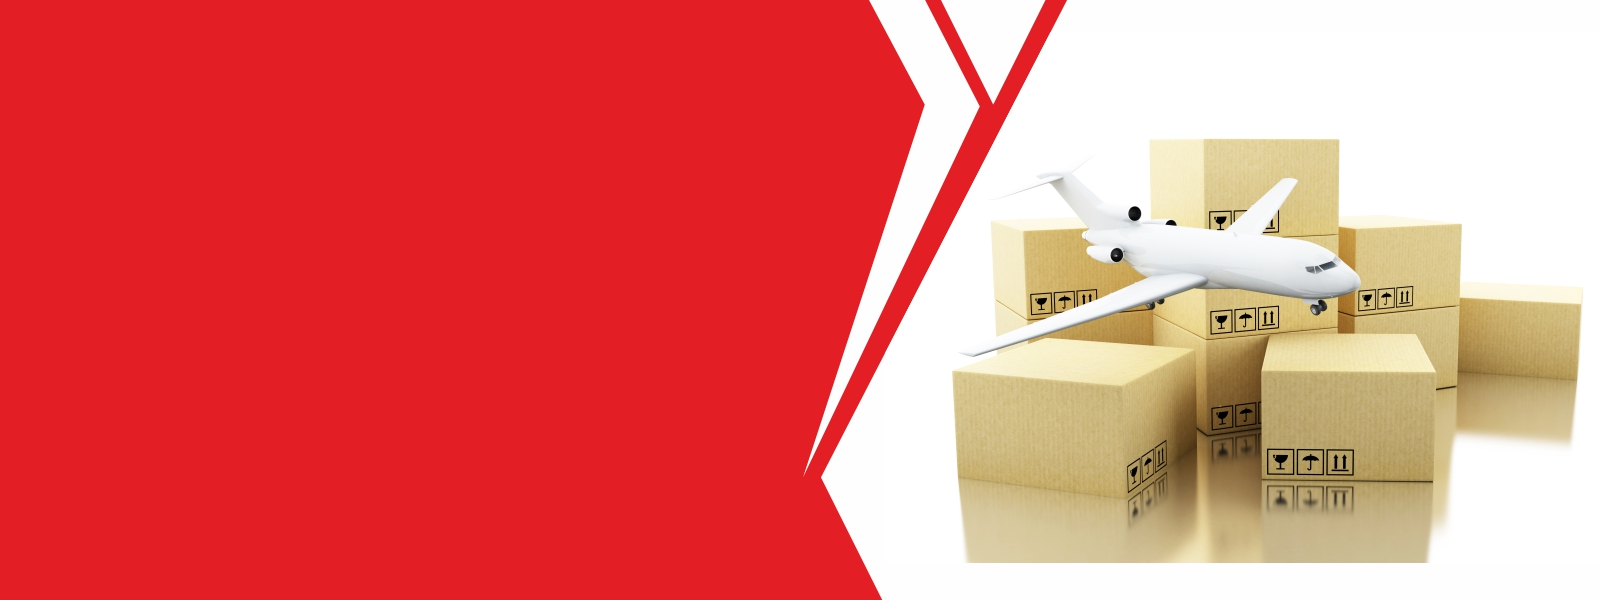
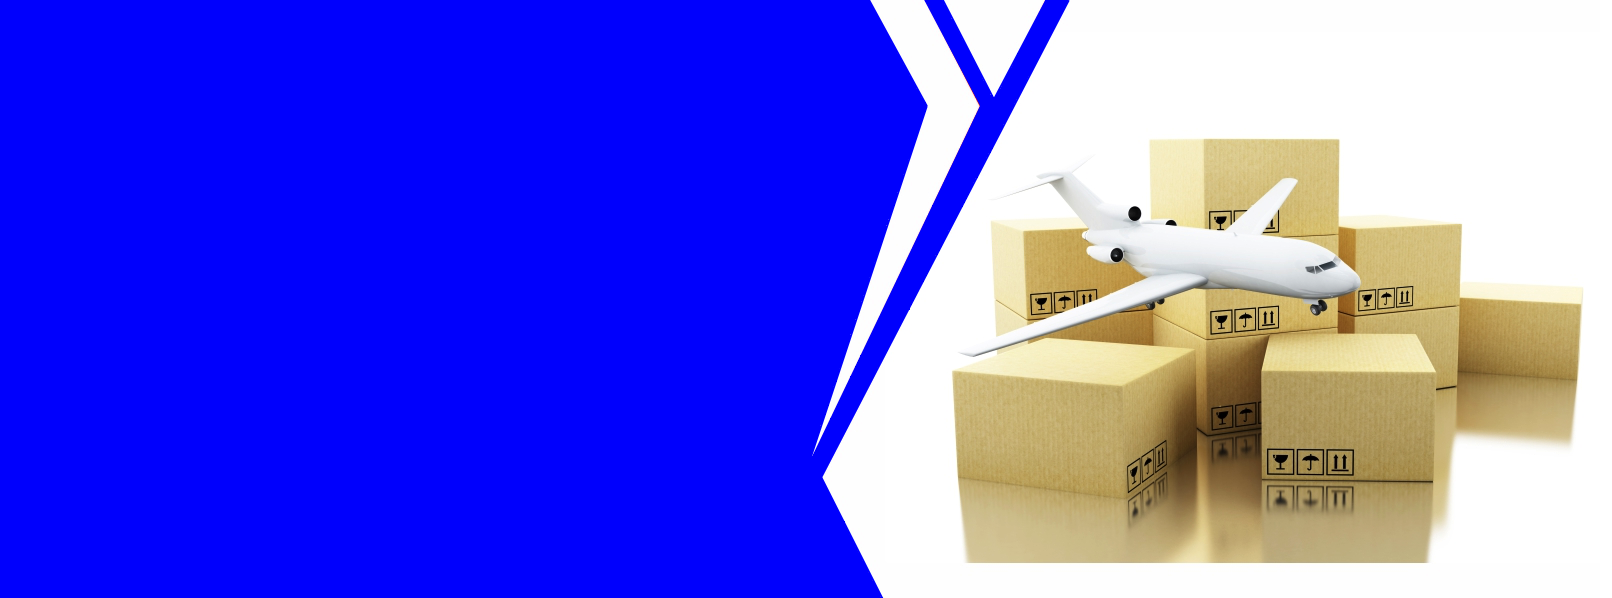
update

diff --git a/www.thehandcarry.co.in/css/color.css b/www.thehandcarry.co.in/css/color.css
@@ -38,30 +38,30 @@ header, .topmenu nav:first-child:before{
 /*---------- CHANGE COLOR TWO ----------*/
 .navbar-main > li > .dropdown-menu,
 footer .color-part, .btn.btn-danger, .btn.btn-danger:hover, .btn.btn-danger, .btn.btn-danger:hover, .main-menu, .main-menu:before, #main-menu-bg, .stats > div > div:hover, .btn.btn-sm.btn-default:before, .big-hr.color-2, .our-services.styled div > a:hover:after, .adress-details > div > span:after, .comments > div > a.reply:hover, .comments > div > a.reply:after, nav.pagination a:hover, .tags a:hover, ul.blog-cats > li:hover, #menu-open, .main-menu section nav, .our-services div > a:hover > span, .testimonial-content span, .info-texts:after, .post-info:after, .customBgColor{
-	background-color:#a91605;
+	background-color:#120586a8;
 }
 .stats > div > div:hover, .btn.btn-sm.btn-default:hover, .comments > div > a.reply:hover, nav.pagination a:hover, .tags a:hover, ul.blog-cats li:hover, .our-services div > a:hover > span, .testimonial-content span{
-	border-color:#a91605;
+	border-color:#ffbd07;
 }
 .big-hr.color-2:before, .big-hr.color-2:after, .info-texts div > div > div:last-child:before{
-    border-top-color:#a91605; 
+    border-top-color:#ffbd07; 
 }
 .our-services div > a:hover > span:before, .our-services div > a:hover > span:after, .testimonial-content span:before, .testimonial-content span:after{
-	border-bottom-color: #a91605; 
+	border-bottom-color: #ffbd07; 
 }
 .stats span:first-child, footer .copy a, .twitter-feeds div span, .recent-posts div a:hover{
-	color:#a91605;
+	color:#ffbd07;
 }
 @media screen and (max-width: 768px){
 	.info-texts div > div > div:last-child p{
-		background:#a91605;
+		background:#ffbd07;
 	}
 	#menu-close,.main-menu a:hover{
-		color:#a91605;
+		color:#ffbd07;
 	}
 }
 .ip-header .ip-loader svg path.ip-loader-circle {
-	stroke: #a91605;
+	stroke: #ffbd07;
 }
 
 /*---------------------------------------------*/
@@ -81,20 +81,20 @@ h1.color-1, h2.color-1, h3.color-1, h4.color-1, h5.color-1, h6.color-1, .twitter
 	color:#f0ad4e;
 }
 .btn.btn-sm.btn-success:hover, nav.pagination a.active, .nav-tabs > li.active{
-	border-color:#549404;
+	border-color:#042394bd;
 }
 .stats > div > div:hover, .info-texts div > div > div:first-child:before, ul.styled li > ul{
-	border-bottom-color:#549404;
+	border-bottom-color:#042394bd;
 }
 .big-hr.color-1:before, .big-hr.color-1:after, .info-texts div > div > div:first-child:before{
-    border-top-color:#549404; 
+    border-top-color:#042394bd; 
 }
 .btn.btn-success, .btn-success:hover, .big-hr.color-1, .one-news > div > div, .btn.btn-sm.btn-success:before, .our-services div > a:hover:after, nav.pagination a.active, ul.styled > li.active, .nav-tabs > li.active > a, .nav-tabs > li.active > a:focus, .nav-tabs > li.active > a:hover, .info-texts:before, ul.blog-cats > li:before, ul.blog-cats li > ul{
-	background-color:#549404;
+	background-color:#042394bd;
 }
 @media screen and (max-width: 768px){
 	.info-texts div > div > div:first-child p{
-		background:#549404;
+		background:#042394bd;
 	}
 }
 /*---------------------------------------------*/

diff --git a/www.thehandcarry.co.in/css/theme.css b/www.thehandcarry.co.in/css/theme.css
@@ -1752,7 +1752,7 @@ h3.color-dark,
 h4.color-dark,
 h5.color-dark,
 h6.color-dark {
-	color: #a91605;
+	color: #ffd502;
 }
 
 footer .copy,
